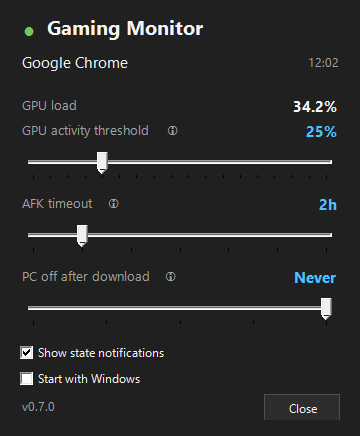
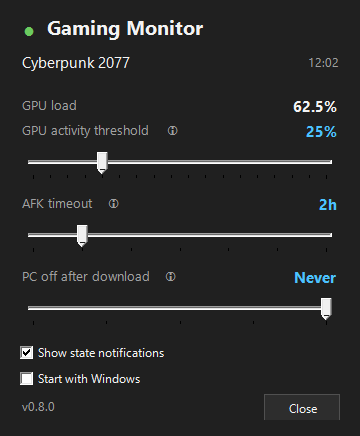
Fresh flyout screenshot, shutdown docs, wiki decision

Changed region(s): [[0.0611, 0.1193, 0.3667, 0.1789], [0.7944, 0.2087, 0.9167, 0.2683], [0.0917, 0.9243, 0.1222, 0.9541]]

diff --git a/README.md b/README.md
@@ -14,6 +14,7 @@ gaming, rendering, or downloading games — and lets it sleep otherwise.
 **What it does:**
 - 🎮 Notices gamepad activity (DualSense, XInput, and other HID pads) and GPU load, blocks display sleep and system sleep while you play
 - 📥 Notices Steam/Xbox downloads, blocks system sleep (but lets the display turn off) until they finish
+- 🌙 Optionally shuts the PC down after downloads finish (grace period, any input cancels)
 - 🔄 Updates itself from GitHub Releases in one click, preserving your settings
 
 ![Settings flyout](docs/screenshots/flyout.png)
@@ -49,6 +50,10 @@ running version.
 No keyboard, mouse or gamepad input for the AFK timeout (default 2h)
 force-releases `Gaming` back to `Idle`, even if the GPU is still busy.
 Downloads stay exempt.
+
+`PC off after download` (default Never) waits out a grace period once
+downloads finish, then shuts the PC down with a cancellable countdown.
+Any input or state change aborts — nothing happens while you're around.
 
 Fine-tuning lives in `assets\settings.json` — see
 [Configuration](docs/configuration.md).
